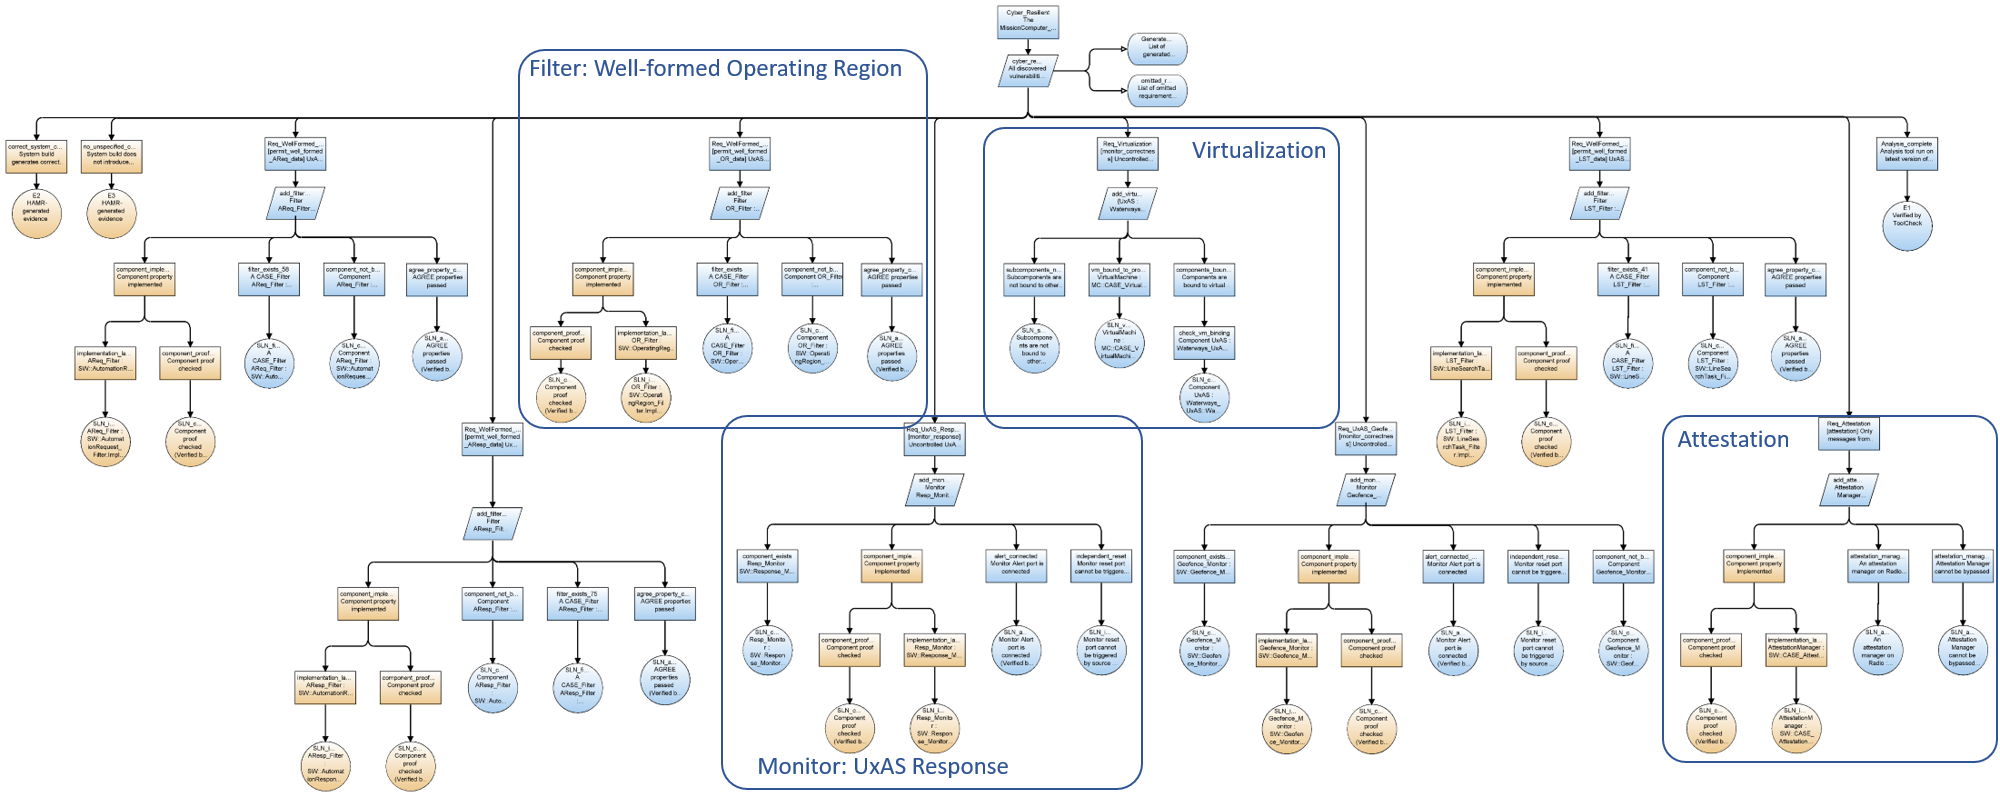
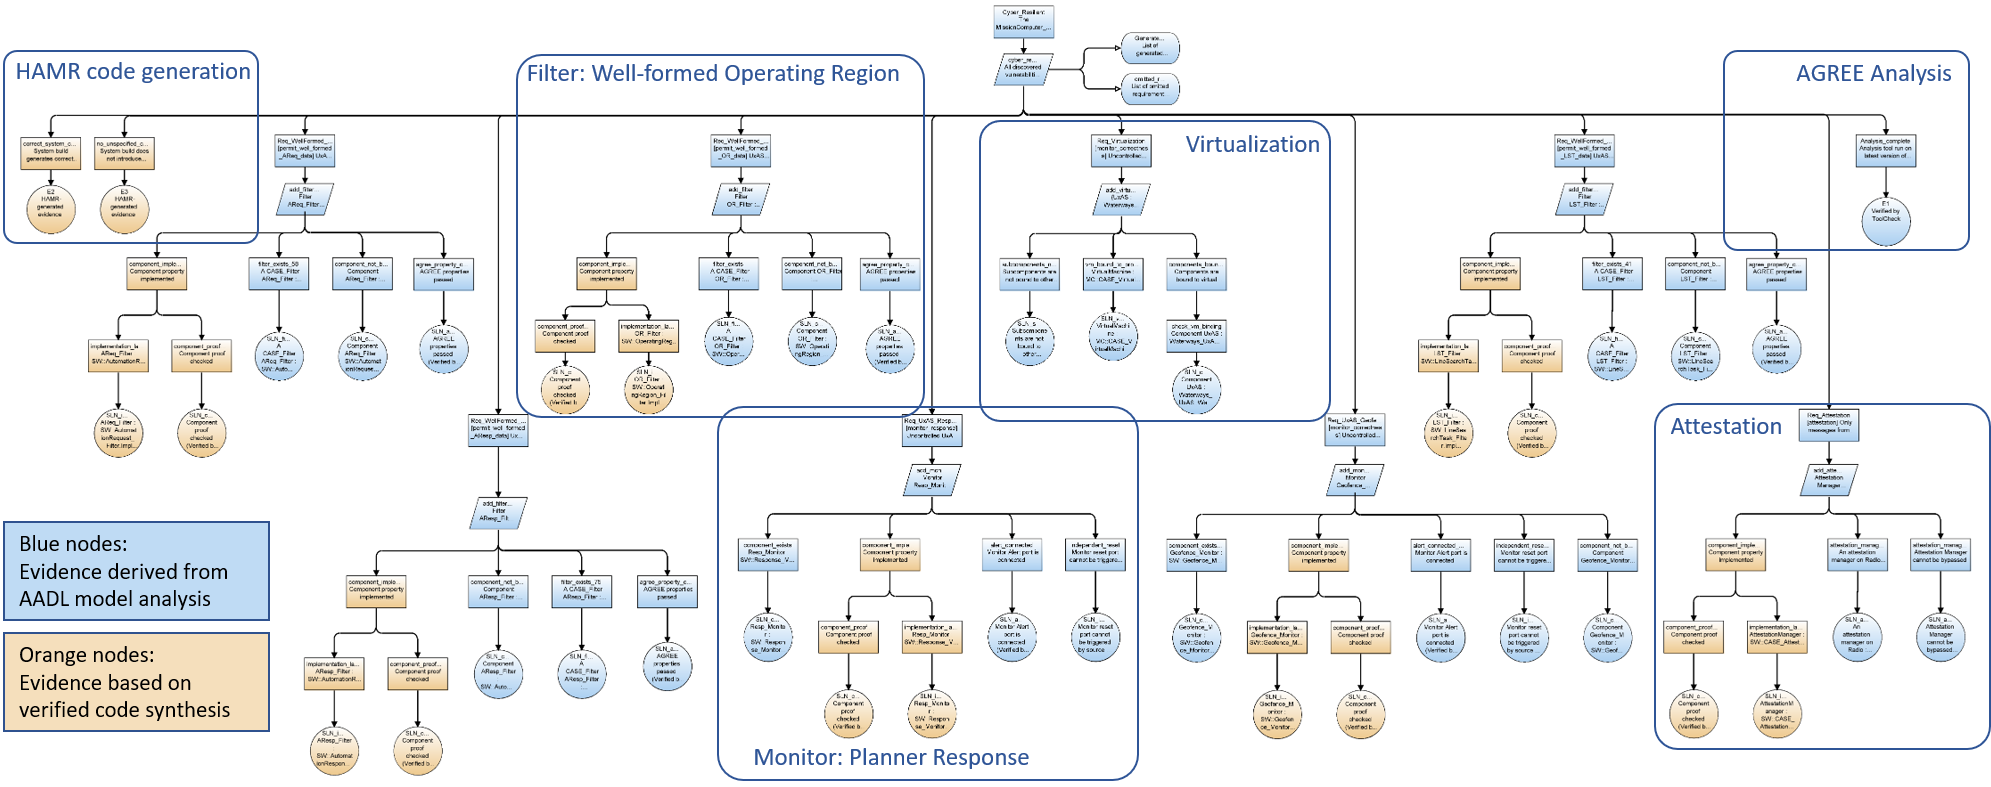
Updated assurance case fig Made Awas fig full width Moved fig 3 (goal) from requirements section to be in-line with text (so maybe it's not a figure?)

Changed region(s): [[0.0, 0.0, 1.0, 1.0]]

diff --git a/assurance.tex b/assurance.tex
@@ -6,22 +6,27 @@ We have found that in assuring the cyber-resiliency properties of aircraft desig
 different kinds of evidence with varying levels of formality. This has been our motivation to
 explore assurance case methods.
 
-In previous work, we developed the {\em Resolute} language and
-tool~\cite{resolute2014},~\cite{resolute-destion} as a way to help developers create an assurance
+In previous work, we developed the {\em Resolute} language and tool
+%~\cite{resolute2014},
+~\cite{resolute-destion} as a way to help developers create an assurance
 argument describing the steps taken during the design process to make the system safe and secure.
 The Resolute syntax supports construction of assurance cases that comply with the Goal Structuring
-Notation (GSN) v2 standard~\cite{GSNv2}. Claims are expressed as \textit{goals} and
+Notation (GSN) v2 standard.
+%~\cite{GSNv2} 
+Claims are expressed as \textit{goals} and
 \textit{strategies}, and can contain attributes such as \textit{context}, \textit{assumptions}, and
 \textit{justification}. Claims can be marked \textit{undeveloped}, which Resolute interprets as an
 unsupported claim, or with a \textit{solution}, which is an explicit assertion that the claim is
 supported. Rather than being a separate document, a Resolute assurance case is part of the
 architecture model and can refer to elements within the model. Since it is not a static
 representation, it can ensure that the assurance argument remains consistent with the evolving
-design.  A partial assurance case for the hardened UAV surveillance system generated by Resolute 
+design.  
+
+A partial assurance case for the hardened UAV surveillance system generated by Resolute 
 is shown in \figref{fig:assurance-case}.  It illustrates assurance argument subtrees for several of
 the high-assurance components associated with cyber-resiliency requirements.  There is also a large subtree associated
-with HAMR code generation and traceability to seL4 separation guarantees is not shown but this is not
-included do to size constraints.  
+with HAMR code generation and traceability to seL4 separation guarantees is not shown but it is collapsed in
+this view due to size constraints.  
 
 \begin{figure*} 
 \centering 

diff --git a/requirements.tex b/requirements.tex
@@ -11,8 +11,8 @@ certification domains.
 
 \begin{figure*}[h]
 	\centering
-	\includegraphics[width=0.8\textwidth]{figs/req-mgmt.png}
-	\caption{Requirements management interface.  IS THIS FIG NEEDED?} 
+	\includegraphics[width=\textwidth]{figs/req-mgmt.png}
+	\caption{\briefcase \ requirements management interface.} 
 	\label{fig:req-mgmt} 
 \end{figure*}
 
@@ -23,15 +23,22 @@ contract.
 
 A BriefCASE project contains a repository for requirements. Imported requirements are represented 
 as assurance case goals to be satisfied. For example, one of the requirements for well-formedness 
-messages selected in \figref{fig:req-mgmt} is imported as the goal shown in \figref{fig:req-wellformed-or}.
+messages selected in \figref{fig:req-mgmt} is imported as the following goal:
+
+\noindent
+\includegraphics[width=1\columnwidth]{figs/req-wellformed-or.png}
+
+% shown in \figref{fig:req-wellformed-or}.
+\noindent
 Initially, the goal is marked {\em undeveloped} and does not contain any evidential statements.  
 These will be added as the design is updated to address this requirement.  
+
 %for Resolute to evaluate in order to determine whether the goal has been satisfied. Running Resolute
 %at this time will therefore produce a failed assurance case.
 
-\begin{figure}[h]
-	\centering
-	\includegraphics[width=1\columnwidth]{figs/req-wellformed-or.png}
-	\caption{Requirement for well-formed messages.  NEEDED? CONVERT TO TEXT?} 
-	\label{fig:req-wellformed-or} 
-\end{figure}
+%\begin{figure}[h]
+%	\centering
+%	\includegraphics[width=1\columnwidth]{figs/req-wellformed-or.png}
+%	\caption{Requirement for well-formed messages.  NEEDED? CONVERT TO TEXT?} 
+%	\label{fig:req-wellformed-or} 
+%\end{figure}

diff --git a/info-flow.tex b/info-flow.tex
@@ -21,10 +21,10 @@ specified using by the AADL Error Modeling Annex (EMv2).
 Awas also provides a user-friendly Domain Specific Language (DSL) to 
 query, check, and visualize custom safety/security system properties.
 
-\begin{figure*}[h]
+\begin{figure*}
 	\centering
-	\includegraphics[width=0.8\textwidth]{figs/CASE-Awas.png}
-	\caption{Awas Information Flow Analysis.  EVEN AT THIS SIZE I THINK THIS IS WAY TO SMALL} 
+	\includegraphics[width=\textwidth]{figs/CASE-Awas.png}
+	\caption{Awas Information Flow Analysis.} 
 	\label{fig:CASE-Awas} 
 \end{figure*}
 

diff --git a/main.tex b/main.tex
@@ -5,6 +5,7 @@
 \usepackage{upmath}
 \usepackage{comment}
 \usepackage{graphicx}
+\usepackage{float}
 
 \usepackage[usenames,dvipsnames,svgnames,table]{xcolor}
 \definecolor{dkgreen}{rgb}{0,0.6,0}
